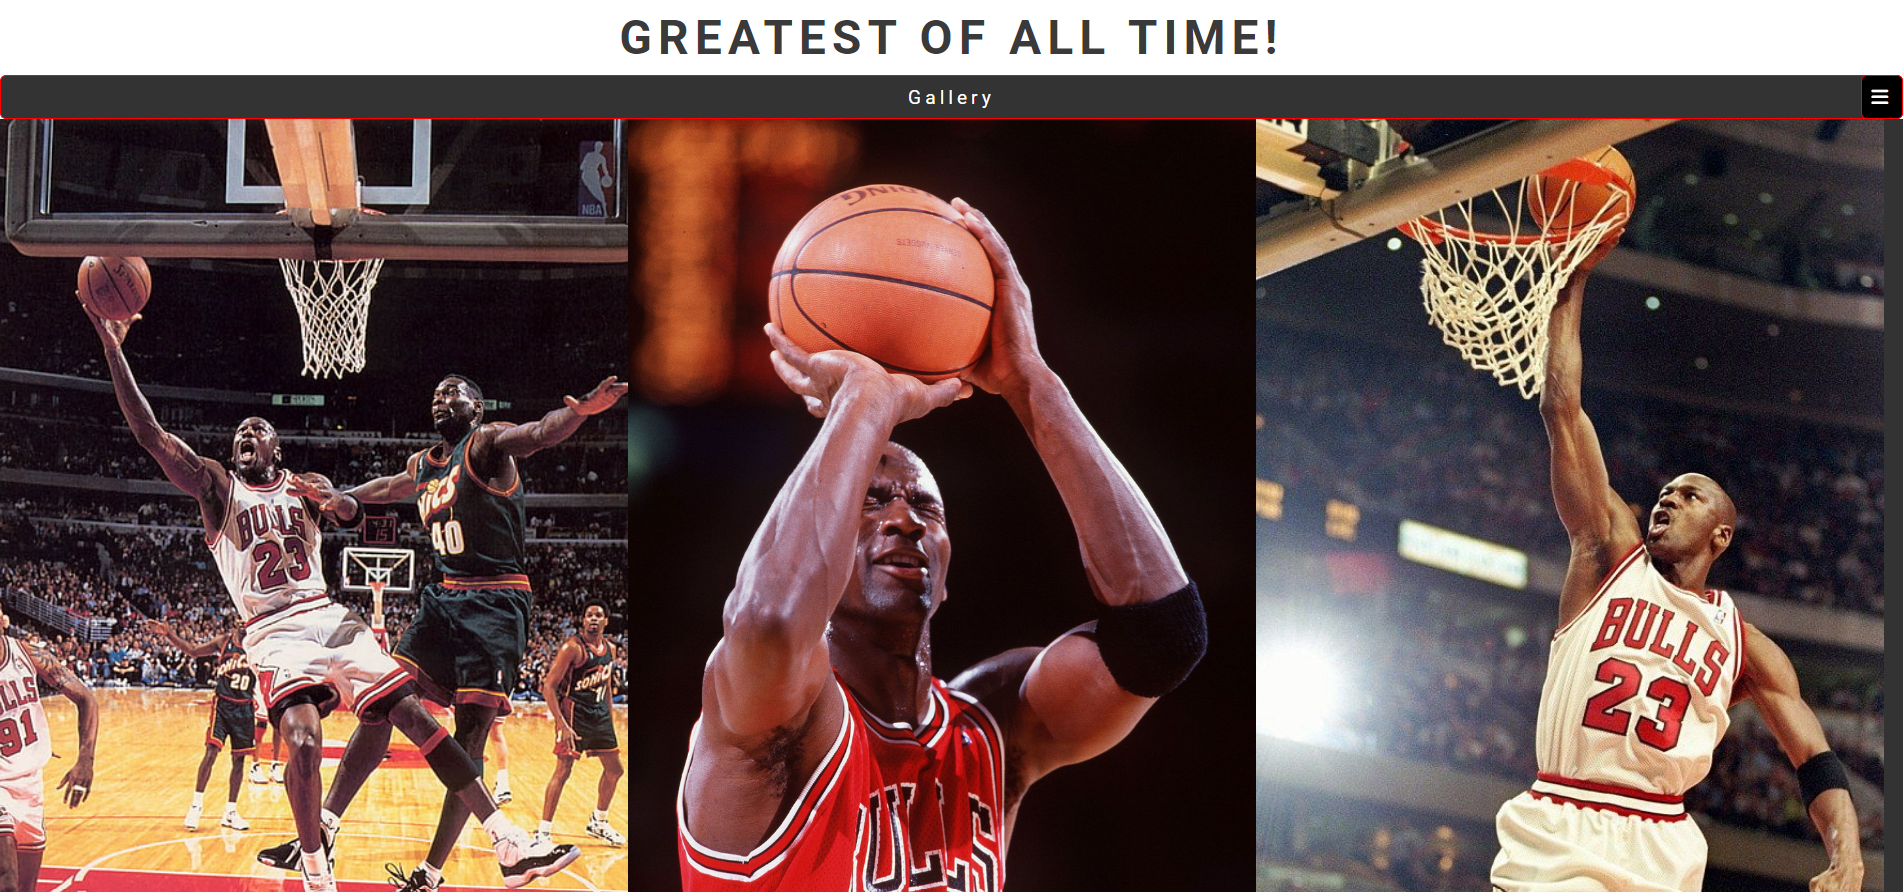
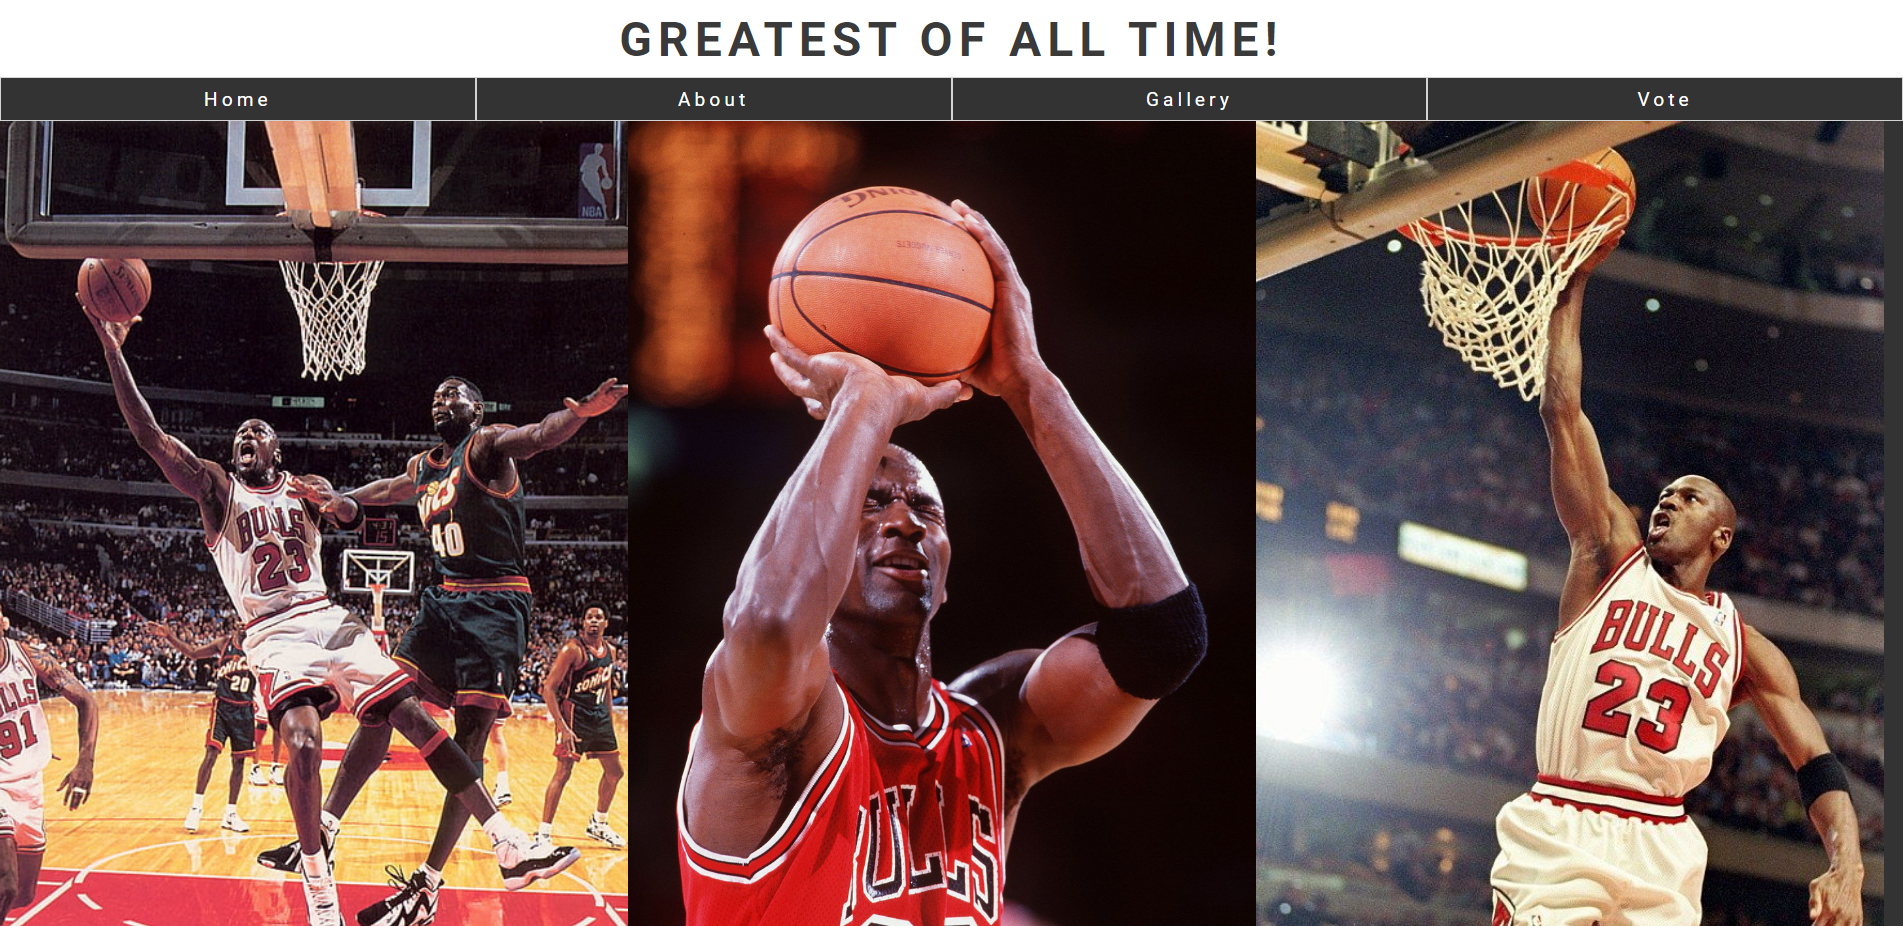
Add new screen shots of all pages with new style to nav bar for screen sizes above 992px wide.

diff --git a/index.html b/index.html
@@ -167,7 +167,7 @@
     <script src="https://kit.fontawesome.com/30bb1d9789.js" crossorigin="anonymous"></script>
 
     <!--drop down box script-->
-    <script src="assets/js/script.js" type="text/javascropt"></script>
+    <script src="assets/js/script.js" type="text/javascript"></script>
 </body>
 
 </html>
